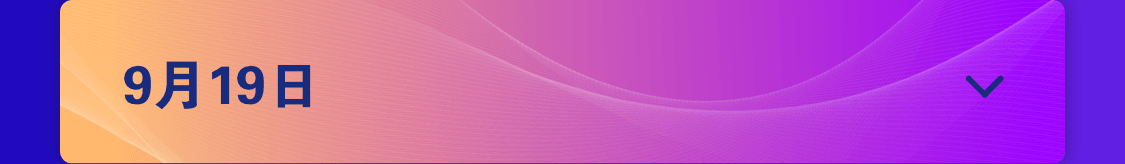
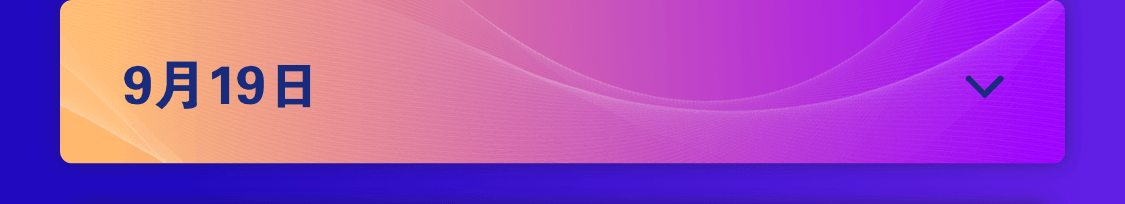
.

diff --git a/src/components/widgetPage/widgetList/components/wgCollapse.vue b/src/components/widgetPage/widgetList/components/wgCollapse.vue
@@ -1,5 +1,11 @@
 <template>
-  <div class="wg-collapse" :style="{ backgroundColor: item.style.backgroundColor }">
+  <div 
+    class="wg-collapse" 
+    :style="{ 
+      margin: item.style.margin,
+      backgroundColor: item.style.backgroundColor 
+    }"
+  >
     <div 
       v-for="(collapseItem, index) in item.sonlist"
       :key="index"
